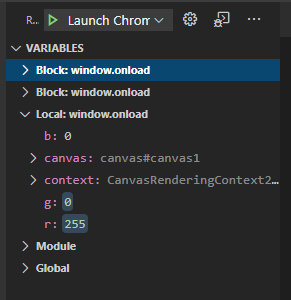
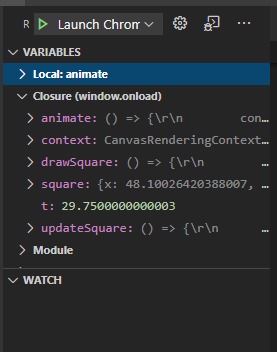
updated excercises, review would be nice

diff --git a/docs/4/index.html b/docs/4/index.html
@@ -38,23 +38,27 @@
 <h2>Box (Exercise): Logging</h2>
 
 <p>
-    Below is the same program as before but it is in <code>4-1.js</code>. Let us add the following logpoint
-    to line 23:
-</p>
-
-<p>
-    <code>red: {r}, green: {g}, blue: {b}</code>
-</p>
-
-<p>
-    When we run this, it will log the values of r, g, and b. You can read this by looking at
-    the debug console on the lower tab of VS Code, or by pressing Ctrl + Shift + i on the page and look at the console there.
-    If we made this logpoint somewhere inside the loop, say on line 27, it will log the rgb values
-    on each iteration.
+    Below is a square going in circle which can be found in <code>4-1.js</code>.
 </p>
 
 <iframe src="../../for_students/4-1.html" width="100%" height="100%" scrolling="no" frameborder="0" 
     style="overflow:hidden;height:100%;width:100%;border: 2px solid gray;border-radius: 5px;"></iframe>
+
+<p>
+    Let us add the following logpoint to line 40:
+</p>
+
+<p>
+    <code>Square Info: {square}</code>
+</p>
+
+<p>
+    When we run this, it will log the values of the square. You can read this by looking at
+    the debug console on the lower tab of VS Code, or by pressing Ctrl + Shift + i on the page and look at the console there.
+    We can click the little carrot on the left of the variable in the debug console to see all it's values. It should look like this:
+</p>
+
+<img src="../../images/loginfo.PNG" width="700">
 
 <h3>Watching Values</h3>
 
@@ -64,25 +68,33 @@
 </p>
 
 <p>
-    <b>Variables</b> contains all the variables currently saved while running your program. If we set
-    a breakpoint on line 24 of 4-1.js and run the debugger, we can find the variables the rgb values.
-    <b>You can also directly modify values of variables while debugging at a breakpoint</b>.
+    <b>Variables</b> contains all the variables currently saved while running your program. If we pause our program
+    in the debugger, all the variables will show up. Variables will also show anytime we hit a breakpoint.
+    We can find the variables we want to observe in here and we can also modify it. Try modifying <code>t</code> 
+    after pausing the program and continue. You will notice that the square will jump position.
 </p>
 
 <img src="../../images/variables.PNG" width="200">
 
 <p>
     <b>Watch</b> holds the variables we wish to constantly track. If we right click on a variable
-    in <b>Variables</b>, we can Add to Watch. Try adding the 3 rgb values to Watch. If we keep continuing at
-    at that breakpoint on line 24, we can see the values shift on each iteration.
+    in <b>Variables</b>, we can 'Add to Watch'. Add the square to Watch. Anytime we pause the program, 
+    we can will see the square's information displayed in watch the same as how we logged it earlier.
 </p>
 
-<h2 id="summary-two-apis">Summary</h2>
+<p>
+    This program runs an animation loop in the <code>animate()</code> function. You can 
+    set a breakpoint on line 43 and keep continuing iteratively to see how the square changes
+    on each animation frame. Also feel free to try the things from the previous page on this page.
+    Things like expression and hit count conditional breakpoints to only pause the animation at certain times.
+</p>
+
+<h2>Summary</h2>
 
 <p>
     Essentially you can still log messages and values in the console when you need. Hopefully
-    doing it this way will prove to be faster also leave less of a mess behind when you no longer need
-    the log messages. Also watching values should prove to be useful since you don't have to constantly log
+    doing it this way will prove to be faster and also leave less of a mess compared to calling the console.log function. 
+    Also watching values should prove to be useful since you don't have to constantly log
     values at various points in time during your code.
 </p>
 

diff --git a/docs/3/index.html b/docs/3/index.html
@@ -36,7 +36,7 @@
 <h2>Box (Exercise): Conditional Statements</h2>
 
 <p>
-    Below is a canvas with a green square, but if you look at <code>3-1.js</code>, you will see that
+    Below is a canvas with a green square just like the last page, but if you look at <code>3-1.js</code>, you will see that
     there is a for loop that keeps drawing a different colored square. Lets set a breakpoint
     on line 24 and run the debugger. 
 </p>
@@ -48,7 +48,7 @@
 
 <p>
     Now edit that breakpoint and go to Expression. Set it to <code>g == 100</code>.
-    This will make it so that the breakpoint only stops the program when g == 100. You
+    This will make it so that the breakpoint only stops the program when g == 100. Restart the page and uou
     should see a brownish square when the debugger pauses then. If we continue, it should jump to
     the end and we'll get the green square again.
 </p>
@@ -67,19 +67,20 @@
     You will notice that below the Expression option, you can also select Hit Count. Hit count basically
     makes it so that the breakpoint will pause the program when a breakpoint has been reached a certain number of
     times. However when you refresh the page, it will remember the count from before so if you set it to something like
-    <code>%100</code>, It will pause the program at g == 99, g == 199, and then when you refresh, it will pause at
-    g == 44, g == 144...
+    <code>%100</code>, It will pause the program whenever the hit count % 100 == 0 (i.e. every 100th hit). 
 </p>
 
 <p>
-    To reset, you have to rerun the debugger. It can be handy at times but Expression should be mostly enough.
+    This will pause the program at g == 99, g == 199, and then when you refresh, it will pause at
+    g == 44, g == 144... This is because after your program ends, hit count reaches 256 and then when you refresh and continue
+    the hit count will reach 300 after 44 more times over the line.
 </p>
 
 <h2 id="summary-two-apis">Summary</h2>
 
 <p>
     We have the power to set the breakpoints to only activate when we want them to. This can save us
-    a lot of time when we only want the program to stop on when a specific value is reached.
+    a lot of time when we only want the program to stop when a specific value is reached.
 </p>
 
 <a href="../../docs/4/" class="Next__Page">Next: Tracking Values</a>

diff --git a/for_students/4-1.js b/for_students/4-1.js
@@ -1,9 +1,4 @@
 
-function func1(context, color) {
-    context.fillStyle = color;
-    context.fillRect(10,10,80,80);
-}
-
 function getColor(r, g, b) {
     return "#" +
         (r.toString(16).length == 1 ? "0" + r.toString(16) : r.toString(16)) + 
@@ -16,14 +11,42 @@ window.onload = function() {
     let canvas = (/** @type {HTMLCanvasElement} */ document.getElementById("canvas1"));
     let context = canvas.getContext('2d');
 
-    let r = 255;
-    let g = 0;
-    let b = 0;
-
-    for(let i = 0; i < 255; i++) {
-        g++;
-        r--;
-        let color = getColor(r, g, b);
-        func1(context, color);
+    let square = {
+        "x": 0,
+        "y": 0,
+        "r": 0,
+        "g": 0,
+        "b": 0,
+        "size": 20
     }
+
+    let t = 0;
+
+    let drawSquare = () => {
+        context.fillStyle = getColor(square.r, square.g, square.b);
+        context.fillRect(square.x-square.size/2, square.y-square.size/2, square.size, square.size);
+    }
+
+    let updateSquare = () => {
+        square.x = 20*Math.cos(t) + 50;
+        square.y = 20*Math.sin(t) + 50;
+        square.r = parseInt(127*Math.sin(t+0.2)+127);
+        square.g = parseInt(127*Math.cos(t*0.5+0.5)+127);
+        square.b = parseInt(127*Math.sin(t*2+0.1)+127);
+    }
+
+    t += 5;
+    updateSquare();
+    drawSquare;
+
+    let animate = () => {
+        context.fillStyle = "White";
+        context.fillRect(0,0,200,200);
+        t += 0.05;
+        updateSquare();
+        drawSquare();
+        window.requestAnimationFrame(animate);
+    }
+
+    animate();
 }

diff --git a/docs/1/index.html b/docs/1/index.html
@@ -126,11 +126,27 @@
 <iframe src="../../for_students/1-1.html" width="100%" height="100%" scrolling="no" frameborder="0" 
     style="overflow:hidden;height:100%;width:100%;border: 2px solid gray;border-radius: 5px;"></iframe>
 
+<p>
+    <b>One more thing of note, make sure you continue all the way or remove/disable all breakpoints and refresh when you want to leave the page
+        while debugging. You won't be able to leave the page until you do.
+    </b> Of course, if you are done debugging, you can simply end the debugging session anytime by closing out the window.
+</p>
+
+<p>
+    At the bottom of the debug tab, there is a <b>Breakpoints</b> tab. If you hover over
+    the tab, you will see 3 actions you can do, the one on the far right will allow you to instantly
+    remove all breakpoints.
+</p>
+
+<img src="../../images/remove breakpoints.PNG" width="300">
+
 <h2>Summary</h2>
     
 <p>
-    This was essentally how we setup the VS Code debugger to run. Next we will look at stepping through our code.
+    This was essentally how we setup the VS Code debugger to run. You can of course just use the Chrome devtools
+    if you prefer those, but going forward, it shouldn't matter which you use. Next we will look at stepping through our code. 
 </p>
+
 
 <a href="../../docs/2/" class="Next__Page">Next: Stepping </a>
 

diff --git a/docs/2/index.html b/docs/2/index.html
@@ -73,8 +73,18 @@
     Lets restart and step into func3() again. This time step out as soon as we get into func3(). You will see that it immediately
     completes the function and goes back into func1() and draw the blue square. If we were to step out after immediately entering func1(),
     we will not see the blue square because the pink square is also immedately drawn after. Essentially, step out finishes the current function and continues
-    to the next line after the function call. You can tell where we will continue from by looking at the <b>Call Stack</b> in the debugger bar.
+    to the next line after the function call.
 </p>
+
+<h3>The Call Stack</h3>
+
+<p>
+    You can tell where we will continue from by looking at the Call Stack in the debugger tab. The image below shows what
+    the Call Stack should look like when we step into func3(). We can see that func3() is at the top of the stack, and we can see that if we step out,
+    we will back into func1(), and then if we step out again we would be in the window.onload() function.
+</p>
+
+<img src="../../images/call stack.PNG" width="300">
 
 <h2>Summary</h2>
 

diff --git a/for_students/3-1.js b/for_students/3-1.js
@@ -1,5 +1,5 @@
 
-function func1(context, color) {
+function drawSquare(context, color) {
     context.fillStyle = color;
     context.fillRect(10,10,80,80);
 }
@@ -24,6 +24,6 @@ window.onload = function() {
         g++;
         r--;
         let color = getColor(r, g, b);
-        func1(context, color);
+        drawSquare(context, color);
     }
 }
